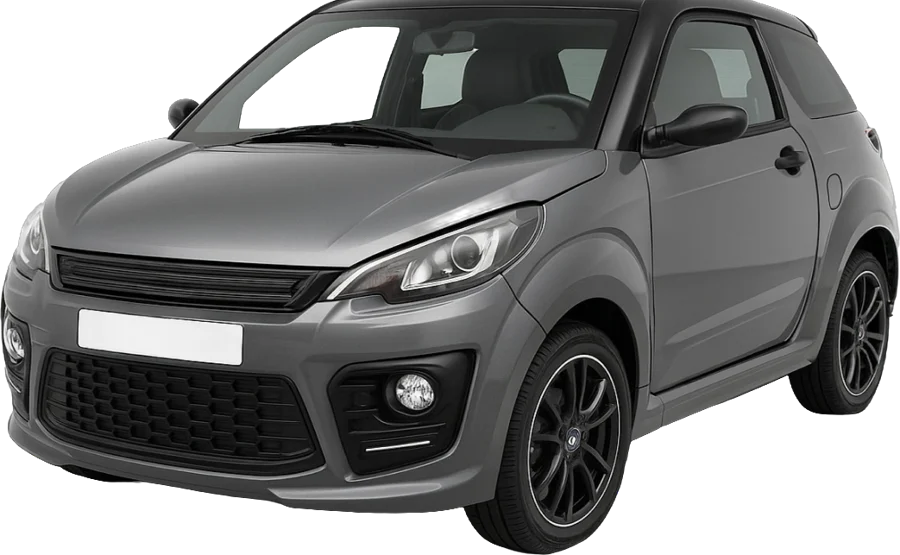
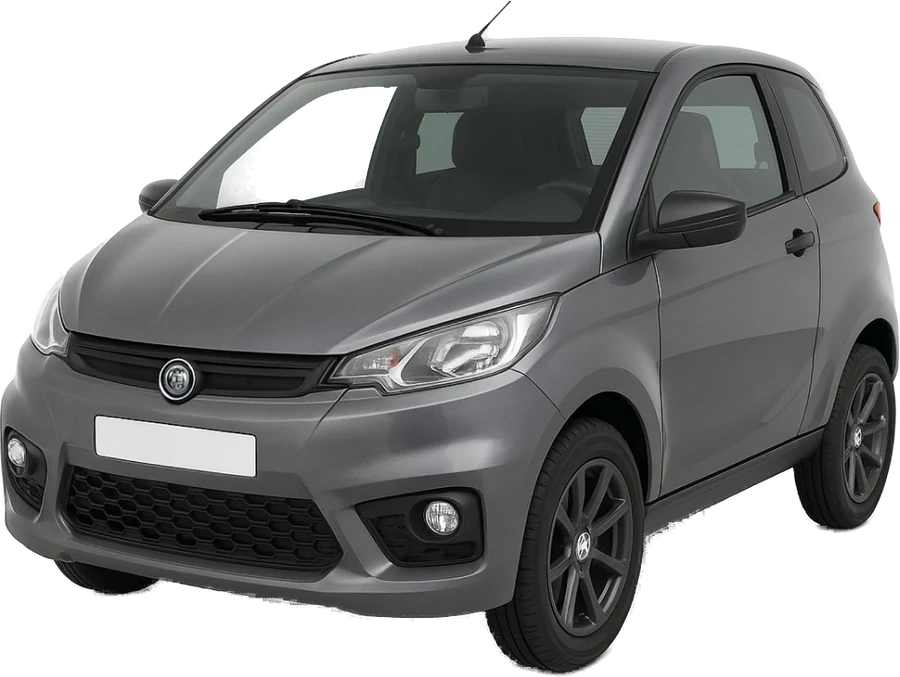
Wizualizacja: Aixam City zamiast Ligiera w kategorii B1
Claude-Session: https://claude.ai/code/session_013idADQh7NvgoAUworVA3NK

diff --git a/wizualizacja/index.html b/wizualizacja/index.html
@@ -532,7 +532,7 @@ footer a { color: var(--white); }
       { id: 'A',  img: 'A', model: 'Yamaha MT-07', age: 24, hours: 20, price: 3500, desc: 'Wszystkie motocykle, bez ograniczenia mocy.' },
     ], start: 1 },
     { id: 'car', name: 'Samochód', cats: [
-      { id: 'B1', img: 'B1', model: 'Ligier JS50', age: 16, hours: 30, price: 4650, desc: 'Czterokołowce, np. większe quady.' },
+      { id: 'B1', img: 'B1', model: 'Aixam City', age: 16, hours: 30, price: 4650, desc: 'Czterokołowce, np. większe quady.' },
       { id: 'B',  img: 'B', model: 'Hyundai i20', age: 17, hours: 30, price: 4500, desc: 'Samochody osobowe. Najpopularniejszy kurs.' },
       { id: 'B+E', img: 'B', model: 'Hyundai i20 z przyczepą', age: 18, hours: 15, price: 2800, desc: 'Samochód z większą przyczepą.' },
     ], start: 1 },
